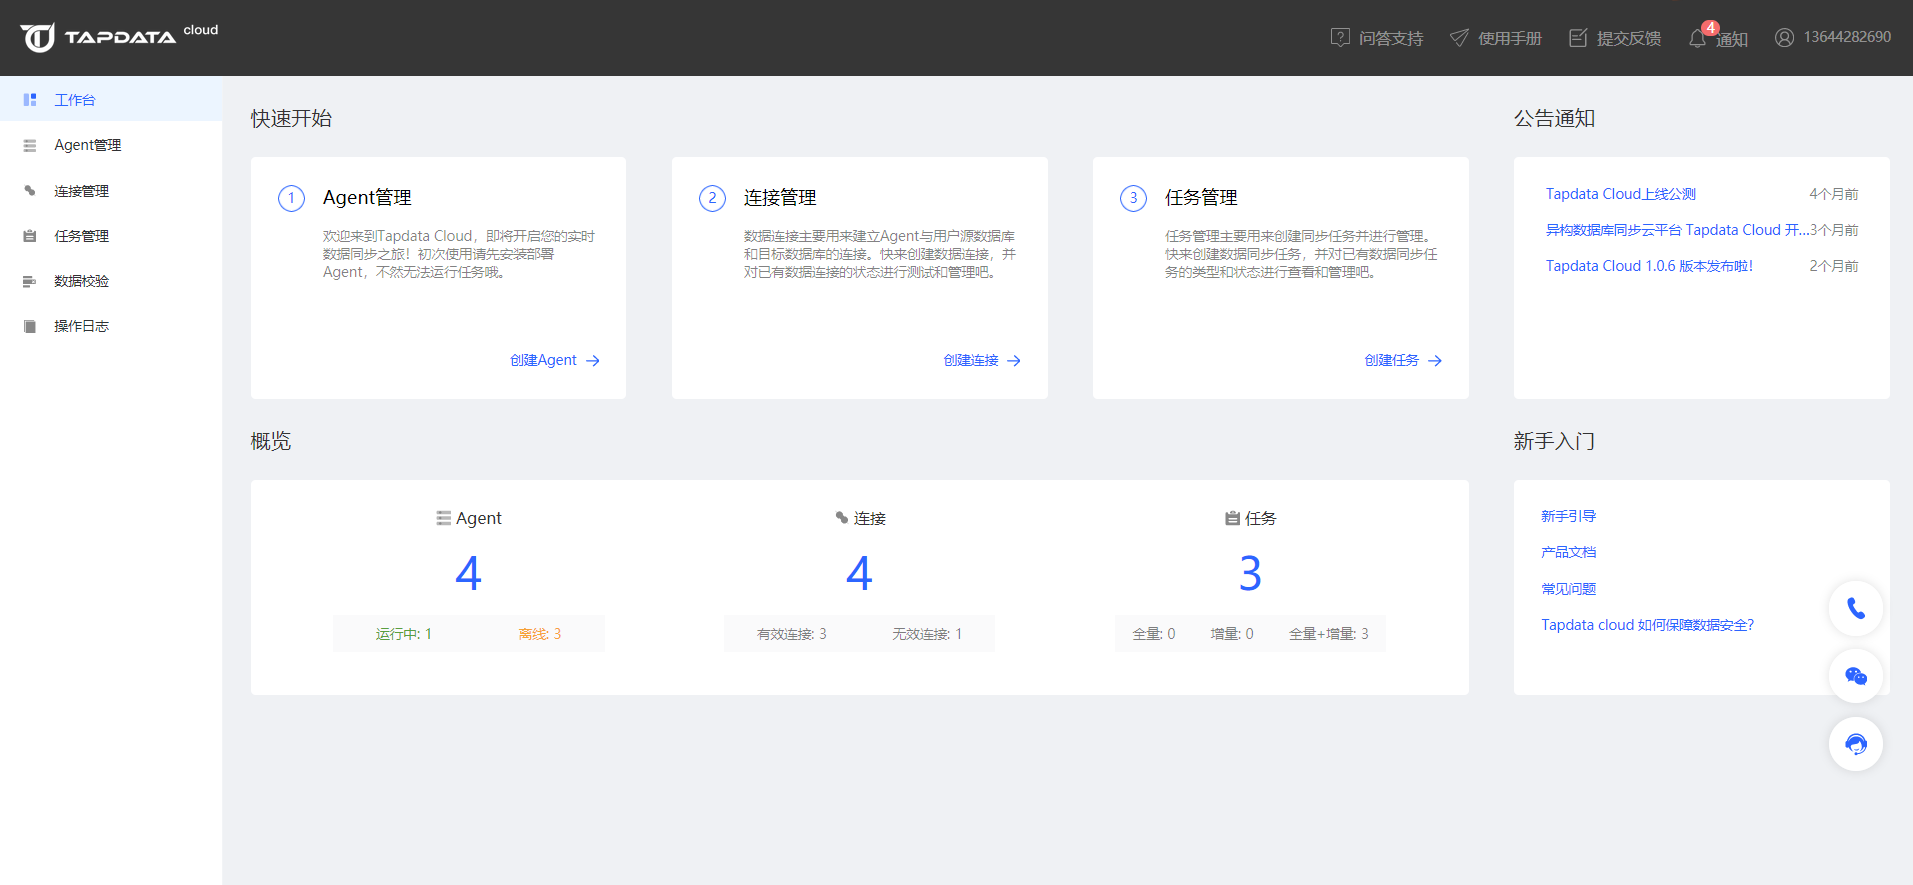
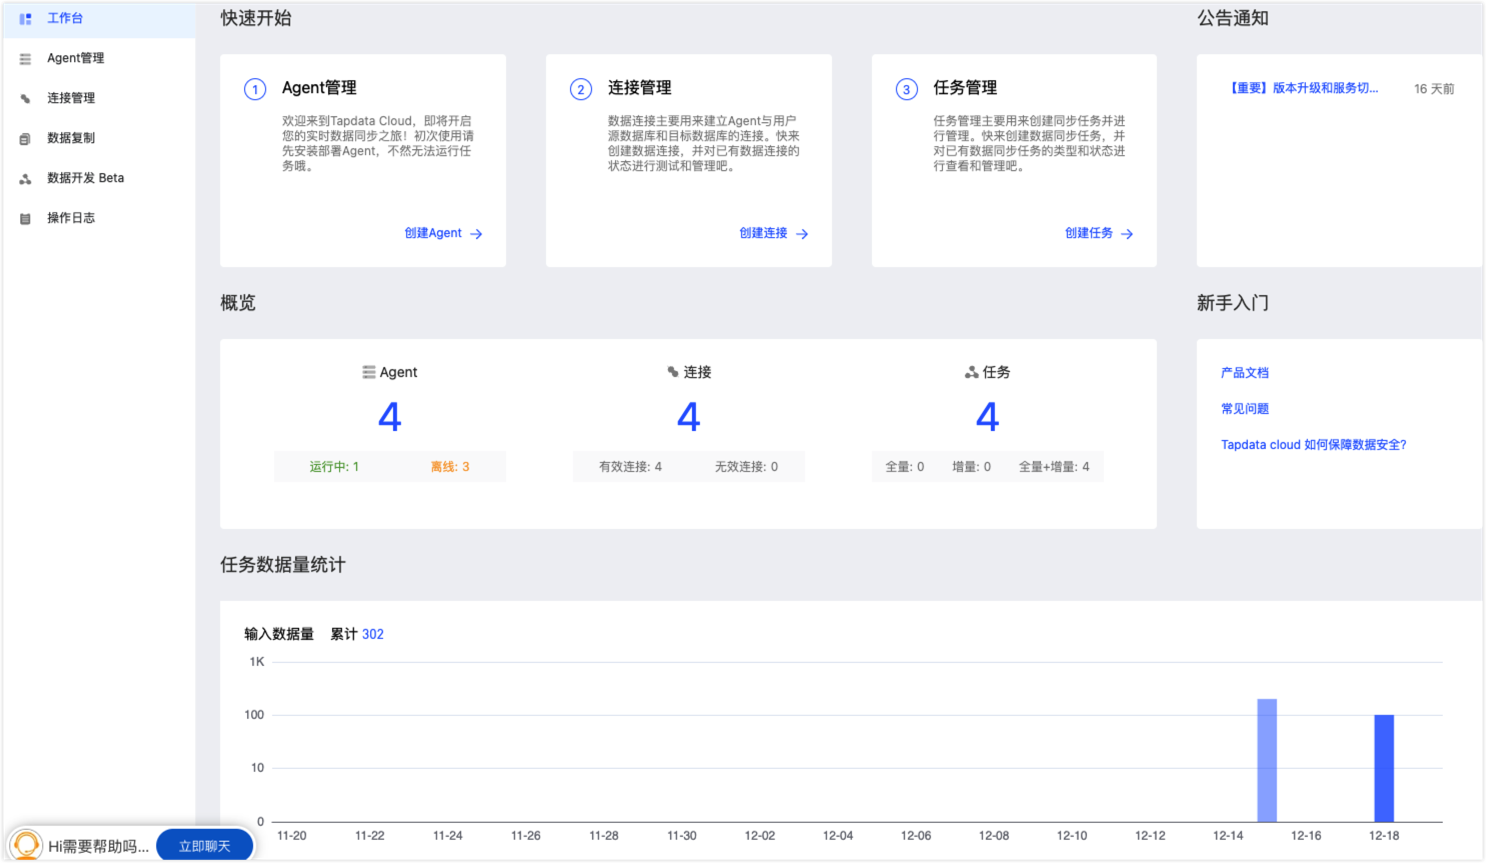
Update docs sidebar

diff --git a/sidebars.js b/sidebars.js
@@ -162,7 +162,7 @@ const sidebars = {
                    'cloud/user-guide/data-development/monitor-task',
                    ]
              },
-             'cloud/user-guide/check-data',
+             'cloud/user-guide/operation-log',
              {
               type: 'category',
               label: '排查连接失败问题',
@@ -387,18 +387,25 @@ const sidebars = {
                      'enterprise/user-guide/data-service/monitor-api-request',
                     ]
              },
-             'enterprise/user-guide/manage-cluster',
-             'enterprise/user-guide/notification',
              {
               type: 'category',
               label: '系统管理',
               link: {type: 'doc', id: 'enterprise/user-guide/manage-system/README'},
               items:[
-                     'enterprise/user-guide/manage-system/system-settings',
-                     'enterprise/user-guide/manage-system/manage-license',
-                     'enterprise/user-guide/manage-system/check-version',
+                     'enterprise/user-guide/manage-system/manage-cluster',
                     ]
              },
+             {
+              type: 'category',
+              label: '其他设置',
+              link: {type: 'doc', id: 'enterprise/user-guide/other-settings/README'},
+              items:[
+                     'enterprise/user-guide/other-settings/system-settings',
+                     'enterprise/user-guide/other-settings/manage-license',
+                     'enterprise/user-guide/other-settings/check-version',
+                    ]
+             },
+             'enterprise/user-guide/notification',
         ]
     },
   'enterprise/release-notes',

diff --git a/docs/cloud/user-guide/workshop.md b/docs/cloud/user-guide/workshop.md
@@ -1,36 +1,37 @@
-# 控制台介绍
+# 工作台介绍
 
-控制台主要帮助用户快速了解和熟悉产品，并可以通过快速创建入口创建 Agent、连接和任务。
+工作台主要帮助用户快速了解和熟悉产品，并可以通过快速创建入口创建 Agent、连接和任务。
 
 ![](../images/workshop.png)
 
+## 快速开始
 
+只需简单 3 步，即可体验 Tapdata 强大、便捷的数据流转能力：
 
-### 用户引导
-
-点击【开启引导】可以进入用户引导页面，引导用户使用Tapdata Cloud.
-
-### 快速开始
-
-- 部署Agent：一键进入Agent部署下载页面，开始部署Agent
-- 创建任务：一键进入任务创建页面，开始创建同步任务
-- 创建连接：一键进入连接创建页面，开始创建连接
+- ① 管理 Agent：单击**创建 Agent**，根据页面引导和本地环境部署 Agent。
+- ② 连接管理：单击创建连接，根据页面引导为 Agent 和数据库建立连接。
+- ③ 任务管理：一键进入任务创建页面，创建数据同步任务。
 
 
 
-### 概览
-
-展示Tapdata Cloud上用户的Agent、连接、任务的状态信息。
-
-
-
-### 公告通知
+## 公告通知
 
 展示最新的公告信息，包括升级变更提醒、版本新特性介绍等内容，点击公告标题可以查看公告详细内容。
 
 
 
-### 新手入门
+## 概览
 
-点击可以快速查看产品介绍文档和产品使用手册
+展示 Tapdata Cloud 中 Agent、连接、任务的数量和状态信息。
 
+
+
+## 新手入门
+
+点击可以快速查看产品介绍文档和产品使用手册。
+
+
+
+## 任务数据量统计
+
+展示近期每天的任务数据量，即插入、更新、删除和 DDL 的总条数。

diff --git a/docs/cloud/user-guide/operation-log.md b/docs/cloud/user-guide/operation-log.md
@@ -1,5 +1,15 @@
 # 操作日志
 
-操作日志主要是记录用户在系统进行的各项操作的日志，用户可查看操作的对象、时间、操作类型及描述。
+操作日志主要是记录用户在 Tapdata Cloud 所执行的操作，您可以查看到近期的操作日志，还可以使用过滤条件对操作日志进行筛选。
 
-![](../images/operation_log.png)
+
+
+## 操作步骤
+
+1. 登录 [Tapdata Cloud 平台](https://auth.tapdata.net/)。
+
+2. 在左侧导航栏栏，单击**操作日志**。
+
+   在该页面，您可以看到各操作的发起人、时间、对象、类型和描述信息，您还可以在列表上方根据业务需求进行筛选，以便更快定位到相关操作日志。
+
+   ![](../images/operation_log.png)

diff --git a/docs/cloud/faq/task.md b/docs/cloud/faq/task.md
@@ -36,6 +36,24 @@
 
 
 
+### 任务状态一直处于“启动中”，如何解决？
+
+您可以联系我们[获取技术支持](support.md)。
+
+
+
+### 重置任务失败？
+
+您需要在 Tapdata Cloud 的 Agent 页面中，检查任务对应 Agent 的健康状态。
+
+
+
+### 任务显示错误，除了任务日志外还可以检查什么日志？
+
+您还查看分析 Agent 的日志信息，路径为 Agent 安装目录下的 **logs/tapdata-agent.log**。
+
+
+
 ### 是否支持跨区域、跨网络的数据同步？
 
 支持。Tapdata Cloud通过 Agent 来连接源和目标，仅通过开放有限的网络服务，即可实现同步需求。

diff --git a/docs/enterprise/support.md b/docs/enterprise/support.md
@@ -30,7 +30,7 @@
 
 * **部门**：选择 **Tapdata 技术支持**。
 * **产品名称**：选择 **Tapdata 企业版**。
-* **版本号**：可在 Tapdata 平台右上角查看，具体操作，见[查看系统版本](user-guide/manage-system/check-version.md)。
+* **版本号**：可在 Tapdata 平台右上角查看，具体操作，见[查看系统版本](user-guide/other-settings/check-version.md)。
 * **支持分类**：根据您的问题类型选择，如选择**用户使用问题**。
 * **主题**：一句话描述您所遇到的问题，便于识别定位。
 * **描述**：填写您遇到的问题，推荐包含下述信息：

diff --git a/versioned_docs/version-2.0/enterprise/support.md b/versioned_docs/version-2.0/enterprise/support.md
@@ -30,7 +30,7 @@
 
 * **部门**：选择 **Tapdata 技术支持**。
 * **产品名称**：选择 **Tapdata 企业版**。
-* **版本号**：可在 Tapdata 平台右上角查看，具体操作，见[查看系统版本](user-guide/manage-system/check-version.md)。
+* **版本号**：可在 Tapdata 平台右上角查看，具体操作，见[查看系统版本](user-guide/other-settings/check-version.md)。
 * **支持分类**：根据您的问题类型选择，如选择**用户使用问题**。
 * **主题**：一句话描述您所遇到的问题，便于识别定位。
 * **描述**：填写您遇到的问题，推荐包含下述信息：

diff --git a/docs/enterprise/user-guide/manage-system/manage-cluster.md b/docs/enterprise/user-guide/manage-system/manage-cluster.md
@@ -2,7 +2,7 @@
 
 集群管理主要用来对系统部署集群进行管理，入口如下：
 
-![](../images/manage_cluster_1.png)
+![](../../images/manage_cluster_1.png)
 
 
 
@@ -14,8 +14,8 @@
 
 支持添加服务监控
 
-![](../images/manage_cluster_2.png)
+![](../../images/manage_cluster_2.png)
 
 支持设置Agent的服务器
 
-![](../images/manage_cluster_3.png)
+![](../../images/manage_cluster_3.png)

diff --git a/versioned_docs/version-2.0/enterprise/user-guide/manage-system/manage-cluster.md b/versioned_docs/version-2.0/enterprise/user-guide/manage-system/manage-cluster.md
@@ -2,7 +2,7 @@
 
 集群管理主要用来对系统部署集群进行管理，入口如下：
 
-![](../images/manage_cluster_1.png)
+![](../../images/manage_cluster_1.png)
 
 
 
@@ -14,8 +14,8 @@
 
 支持添加服务监控
 
-![](../images/manage_cluster_2.png)
+![](../../images/manage_cluster_2.png)
 
 支持设置Agent的服务器
 
-![](../images/manage_cluster_3.png)
+![](../../images/manage_cluster_3.png)

diff --git a/docs/enterprise/user-guide/data-service/audit-api.md b/docs/enterprise/user-guide/data-service/audit-api.md
@@ -1,4 +1,4 @@
-# 审计 API 调用记录
+# 服务审计
 
 服务审计主要用来查看 API 的访问记录，可查看每次请求的记录包括访问时间、访问类型、访问结果、失败原因等等，也可按不同条件进行筛选。
 

diff --git a/versioned_docs/version-2.0/enterprise/user-guide/data-service/audit-api.md b/versioned_docs/version-2.0/enterprise/user-guide/data-service/audit-api.md
@@ -1,4 +1,4 @@
-# 审计 API 调用记录
+# 服务审计
 
 服务审计主要用来查看 API 的访问记录，可查看每次请求的记录包括访问时间、访问类型、访问结果、失败原因等等，也可按不同条件进行筛选。
 

diff --git a/docs/enterprise/user-guide/data-service/create-api-service.md b/docs/enterprise/user-guide/data-service/create-api-service.md
@@ -1,4 +1,4 @@
-# 创建 API 服务
+# 创建数据服务
 
 为了方便开发人员进行接口对接，同时也方便查看通过 Tapdata 发布的 API 信息，我们提供了数据服务功能。
 

diff --git a/versioned_docs/version-2.0/enterprise/user-guide/data-service/create-api-service.md b/versioned_docs/version-2.0/enterprise/user-guide/data-service/create-api-service.md
@@ -1,4 +1,4 @@
-# 创建 API 服务
+# 创建数据服务
 
 为了方便开发人员进行接口对接，同时也方便查看通过 Tapdata 发布的 API 信息，我们提供了数据服务功能。
 
